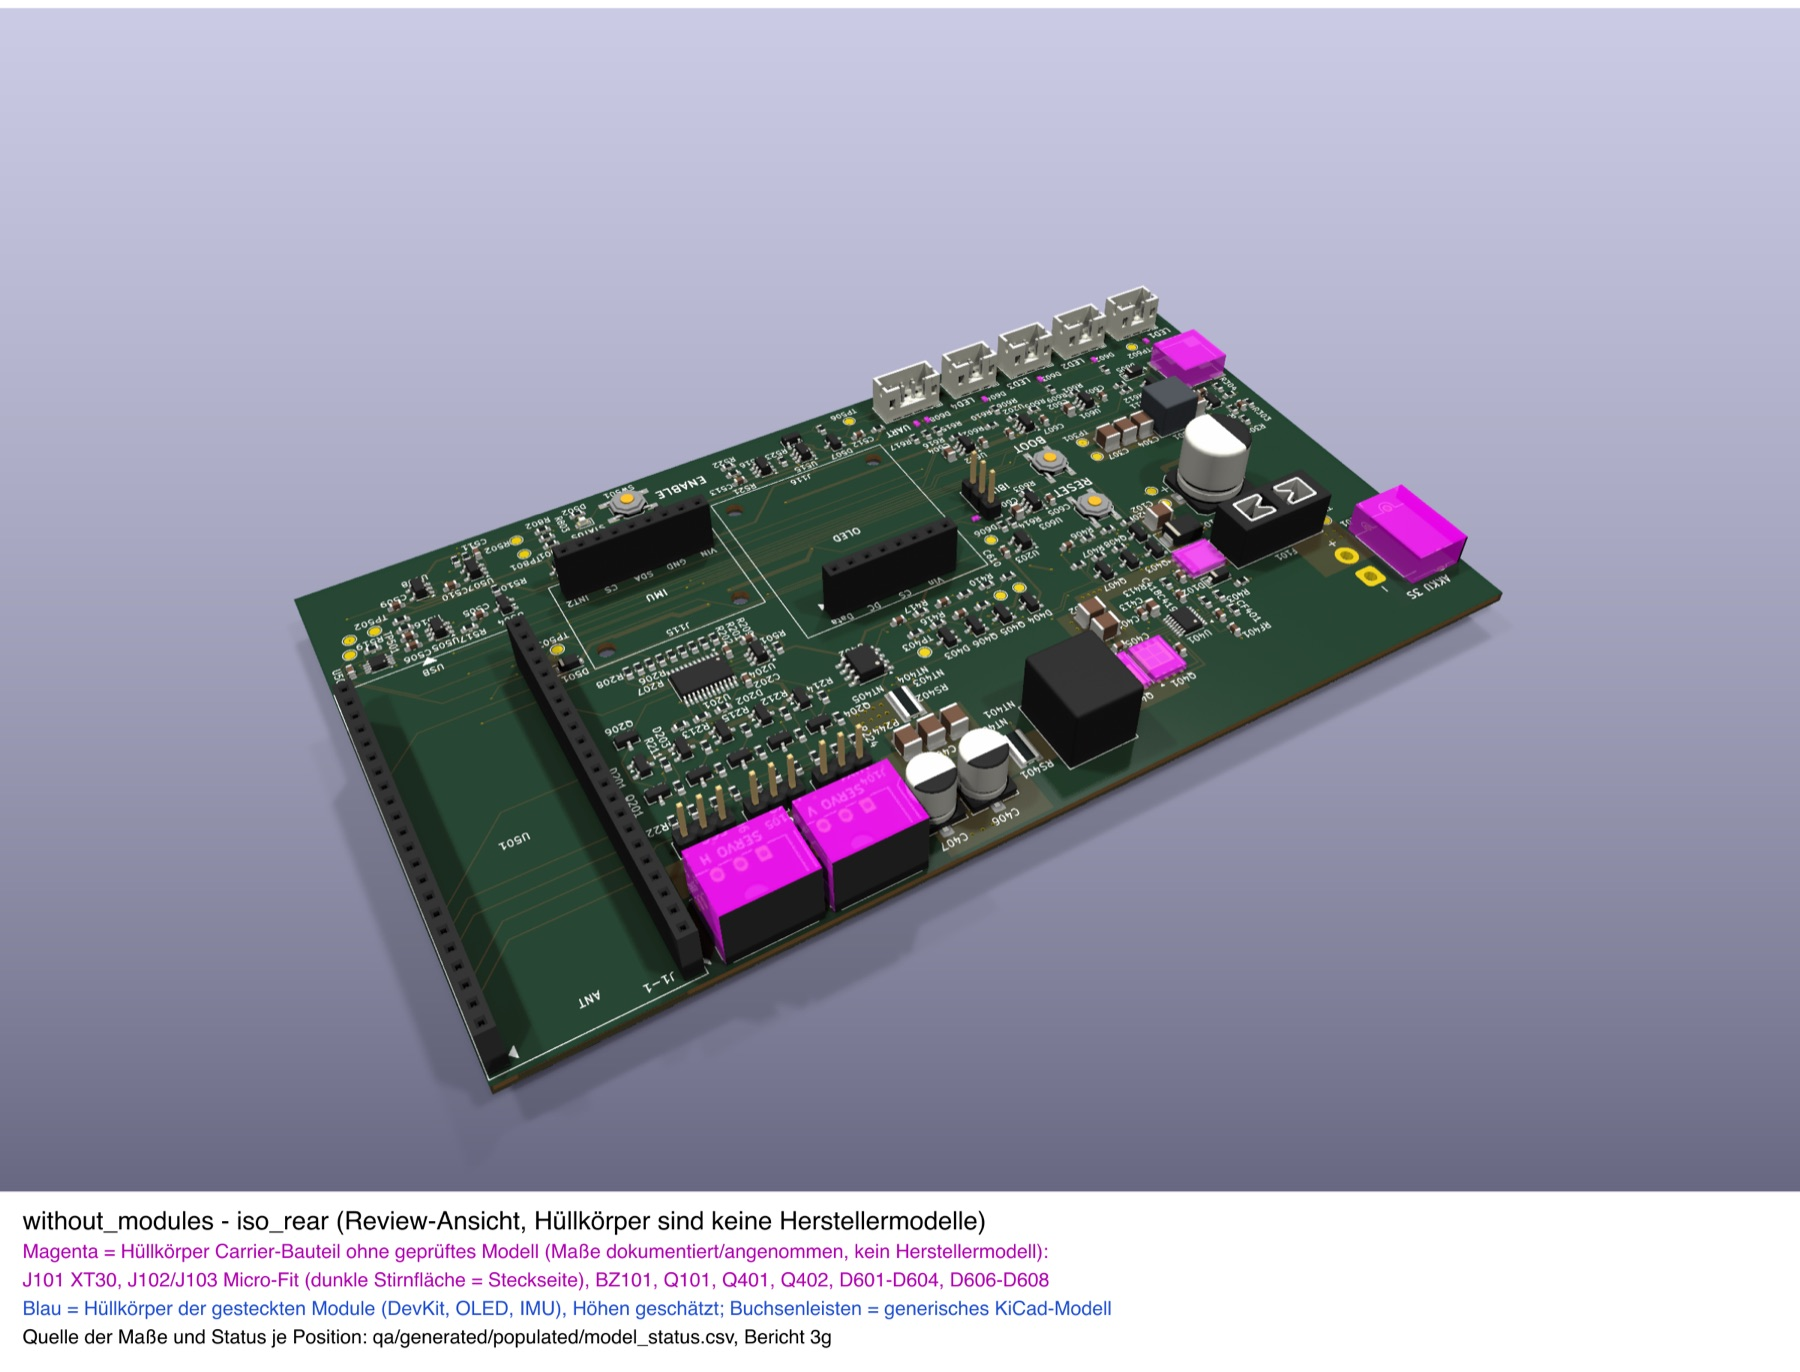
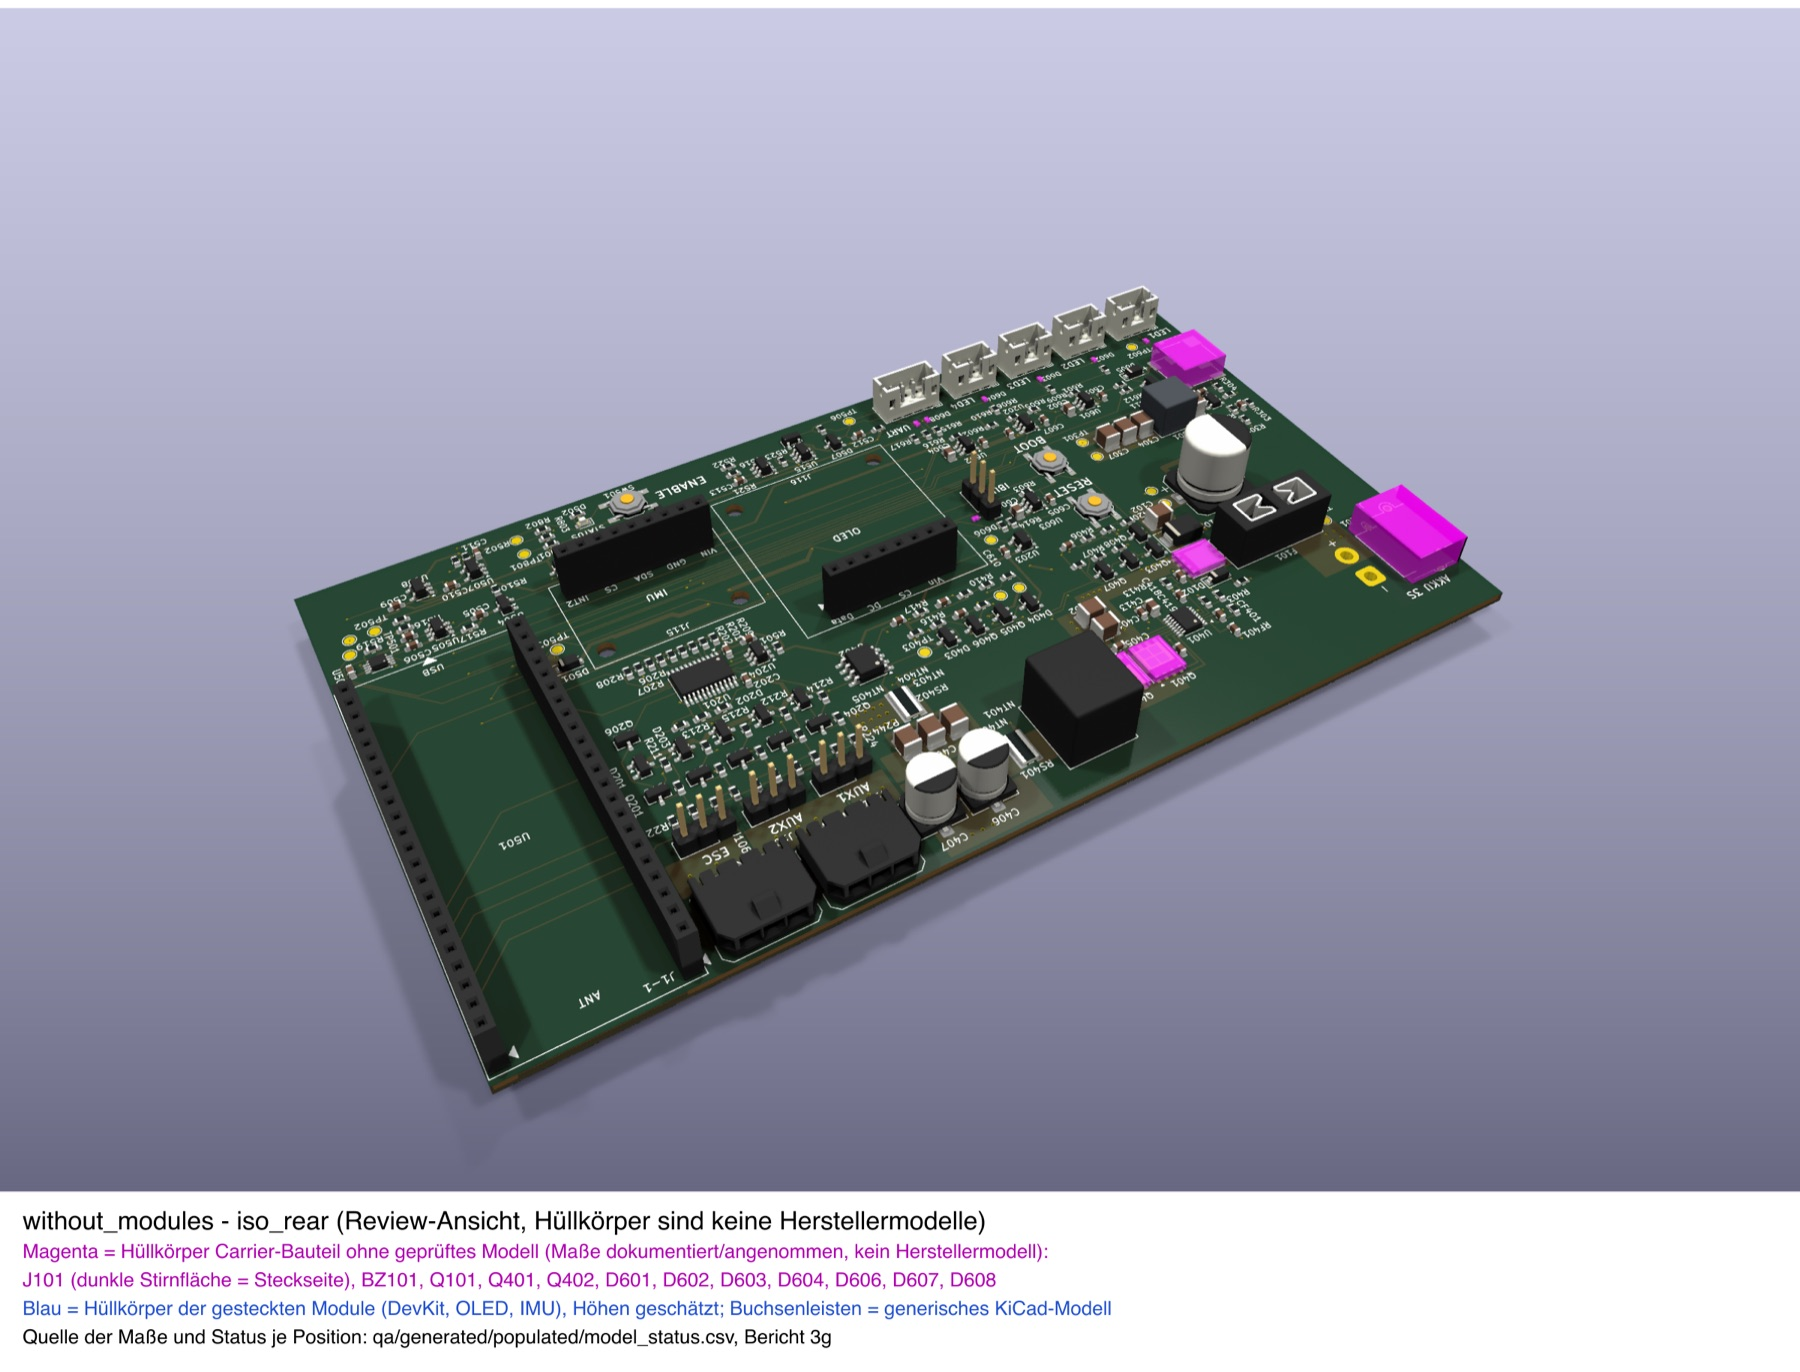
Report 3m and README/Pages images: vendor model status per part

Changed region(s): [[0.3733, 0.551, 0.5289, 0.7041], [0.0311, 0.9184, 0.4978, 0.949], [0.56, 0.9184, 0.5911, 0.949]]

diff --git a/docs/vcu/rev1-platzierung.md b/docs/vcu/rev1-platzierung.md
@@ -1302,6 +1302,55 @@ Review-Bilder, Skripte und Dokumentation.
   - Abstandshöhe unten (THT-Stifte, C403/C404/D401).
   Bis dahin bleibt das Paket DRAFT/NO-GO.
 
+## 3m. Herstellermodelle (Stand 2026-11-18)
+
+Auftrag: magenta Hüllkörper durch Herstellermodelle ersetzen. Es ändern sich
+nur die 3D-Einträge in `RoverCore.kicad_pcb`. Pads, Positionen und Routing
+bleiben, wie sie sind.
+
+| Position | Bauteil | Quelle | Ergebnis |
+|---|---|---|---|
+| J102, J103 | Molex 43650-0300 | [molex.com](https://www.molex.com/en-us/products/part-detail/436500300), STEP AP242 über TraceParts, ohne Anmeldung | **übernommen** |
+| J101 | AMASS XT30PW-M | [Ultra Librarian](https://app.ultralibrarian.com/details/25c08cfe-12d2-11ec-9033-0a34d6323d74/Amass/XT30PW-M) | dort **kein 3D-Modell** („No 3D Model Available“), nur Symbol und Footprint. Ein GrabCAD-Modell eines Nutzers ist kein Herstellermodell und braucht eine Anmeldung; nicht geladen |
+| BZ101 | Same Sky CMT-8540S-SMT-TR | [sameskydevices.com](https://www.sameskydevices.com/product/audio/buzzers/audio-transducers/cmt-8540s-smt-tr) | **blockiert:** Download nur nach Eingabe einer E-Mail-Adresse und Zustimmung zu den „CAD Model Terms“; nicht ohne Owner |
+| Q101 | Vishay SiRA99DP-T1-GE3 | [Vishay-Portal (Ultra Librarian)](https://vendor.ultralibrarian.com/vishay/embedded?q=library/ecad/&vdrSearch=SIRA99DP-T1-GE3&docId=71023) | dort **kein 3D-Format**, nur Symbol und Footprint; Export verlangt außerdem Zustimmung zu den UL-Bedingungen |
+| Q401, Q402 | Infineon BSC026N04LS, PG-TDSON-8-6 | [Infineon-Gehäuseseite](https://www.infineon.com/package/PG-TDSON-8-6), [Produktseite](https://www.infineon.com/part/BSC026N04LS) | **kein STEP** angeboten: nur interaktives 3D-PDF, Gehäusezeichnung, Footprint-PDF |
+| D601–D604, D606–D608 | TI TPD1E05U06DPYR | [Ultra Librarian](https://app.ultralibrarian.com/details/16990488-103f-11e9-ab3a-0a3560a4cccc/Texas-Instruments/TPD1E05U06DPYR) | 3D-Modell vorhanden, **blockiert:** „Login to Download“ (kostenloses Konto) |
+| (Molex J102/J103) | – | [Ultra Librarian](https://app.ultralibrarian.com/details/e86e5139-a2fd-11eb-9033-0a34d6323d74/Molex/436500300) | dort ebenfalls „Login to Download“; nicht nötig, weil Molex direkt liefert |
+
+*Molex 43650-0300* (`hardware/libraries/3d-models/models.csv`):
+- **Datei:** `vendor/Molex_436500300.stp`, SHA-256 `0b5b19a1…7d30`,
+  TraceParts-Teil 33-12012026-074690, Version 1.1.7. Laut Begleitdatei die
+  Variante „Right-Angle Header, 3.00mm Pitch, Single Row, 3 Circuits, with
+  Snap-in Plastic Peg PCB Lock, Black“; das ist die bestellte Teilenummer.
+- **Ausrichtung:** Drehung (−90°, 0°, 180°), Versatz 0. Prüfung mit
+  `hardware/scripts/model_fit_check.py` (Footprint allein, Ansichten oben,
+  vorne, seitlich, schräg):
+  - Gehäuse = Bestückungsdruck-Umriss einschließlich Fasen;
+  - Stifte 1–3 in den Pads bei x 0 / 3 / 6;
+  - Rastzapfen in der NPTH-Bohrung (3 | −4,32);
+  - Gehäuse liegt auf der Platine auf, Steckseite zur Platinenkante
+    (lokal y min).
+  Im Gesamtrender geprüft (Draufsicht, schräg von hinten).
+- **Lizenz:** Die Molex-Nutzungsbedingungen erlauben die Nutzung
+  heruntergeladener Inhalte zur Bewertung der Produkte, keine Weitergabe.
+  Das Repository ist öffentlich, deshalb ist die STEP-Datei **nicht in Git**
+  (`.gitignore`). Versioniert sind Quelle, Datum, Prüfsumme und Ausrichtung;
+  `hardware/scripts/assign_vendor_models.py` trägt sie ein. Ohne die Datei
+  fehlt der Körper, und `kit verify` meldet ihn unter `models_3d`.
+  Gerenderte Bilder des Modells stehen im README.
+- **Stand `models_3d`:** 12 statt 14 Meldungen. ERC, DRC und Parität bestehen.
+
+*Für die blockierten Teile braucht es den Owner:*
+- **Ultra Librarian (TPD1E05U06):** im Browser-Bereich anmelden; dann lade ich
+  das Modell und prüfe es wie oben.
+- **Same Sky (BZ101):** Freigabe, dort die E-Mail-Adresse einzutragen und den
+  CAD Model Terms zuzustimmen, oder die Datei selbst laden.
+- **XT30PW-M, SiRA99DP, PG-TDSON-8:** bei den genannten Quellen gibt es kein
+  STEP. Möglich wären Anfragen bei AMASS, Vishay und Infineon oder die
+  KiCad-Bibliotheksmodelle derselben Footprints (CC-BY-SA, generiert, keine
+  Herstellermodelle); dafür ist ein Download aus dem KiCad-GitLab nötig.
+
 ## 4. DevKit, Antenne und USB
 
 - U501 sitzt an der rechten Kante. Die Antennen-Sperrfläche des Footprints

diff --git a/README.md b/README.md
@@ -18,9 +18,10 @@ prüfbare Prototyp nach dem [Inbetriebnahmeplan](docs/bringup.md).
 
 Review-Ansichten (`hardware/scripts/render_populated_review.py`): Bauteile mit
 KiCad-Bibliotheksmodell erscheinen normal. **Magenta** sind gekennzeichnete
-Hüllkörper für Carrier-Teile ohne verfügbares Modell (J101 XT30, J102/J103
-Micro-Fit mit dunkler Stirnfläche auf der Steckseite, BZ101, Q101, Q401, Q402,
-D601–D604, D606–D608). **Blau** sind Hüllkörper der gesteckten Module
+Hüllkörper für Carrier-Teile ohne verfügbares Modell (J101 XT30 mit dunkler
+Stirnfläche auf der Steckseite, BZ101, Q101, Q401, Q402, D601–D604,
+D606–D608). J102/J103 zeigen das Molex-Herstellermodell (projektlokal, nicht
+in Git; Quelle und Prüfsumme in `hardware/libraries/3d-models/models.csv`). **Blau** sind Hüllkörper der gesteckten Module
 (DevKit, OLED, IMU). Hüllkörper sind keine Herstellermodelle; ihre Maße und
 Quellen stehen in `qa/generated/populated/model_status.csv` und im Bericht
 (3g, 3l).
@@ -72,9 +73,9 @@ Online: <https://cagricatik.github.io/RoverCore/>
   (JLCPCB verlangt 0,15 mm); Entscheidung offen (Bericht 3l).
 - Befestigung: fünf M3-Positionen sind nur Kommentarmarken, keine Bohrungen;
   Lage, Bohrungsart und Abstandshöhe mit dem Chassis festlegen (Bericht 3l).
-- 3D: KiCad-Bibliotheksmodelle für XT30, Micro-Fit, PowerPAK/TDSON und
-  X2SON fehlen in dieser Installation; Herstellermodelle für DevKit, OLED, IMU
-  und BZ101 liegen nicht vor.
+- 3D: Herstellermodelle für XT30, BZ101, Q101, Q401/Q402, D601–D608 sowie
+  DevKit, OLED und IMU fehlen noch (Download-Stand je Teil im Bericht 3m).
+  J102/J103 haben das Molex-Modell.
 - GO-Freigabe nur mit signierter Freigabe (`manufacturing/approval.example.json`)
   und `--authorize`.
 

diff --git a/docs/index.md b/docs/index.md
@@ -15,8 +15,9 @@ KiCad 10.0.7, 4 Lagen, 150 × 85 mm.
 ![RoverCore Rev 1 mit gesteckten Modulen](images/populated_iso_front.jpg)
 
 **Magenta** = gekennzeichnete Hüllkörper für Carrier-Teile ohne verfügbares
-Modell (XT30, Micro-Fit mit dunkler Steckseite, Buzzer, Leistungs-FETs, X2SON-
-Dioden); **blau** = Hüllkörper der gesteckten Module (DevKit, OLED, IMU).
+Modell (XT30 mit dunkler Steckseite, Buzzer, Leistungs-FETs, X2SON-Dioden);
+**blau** = Hüllkörper der gesteckten Module (DevKit, OLED, IMU). J102/J103
+zeigen das Molex-Herstellermodell.
 Hüllkörper sind keine Herstellermodelle.
 
 | Mit Modulen | Ohne Module |
